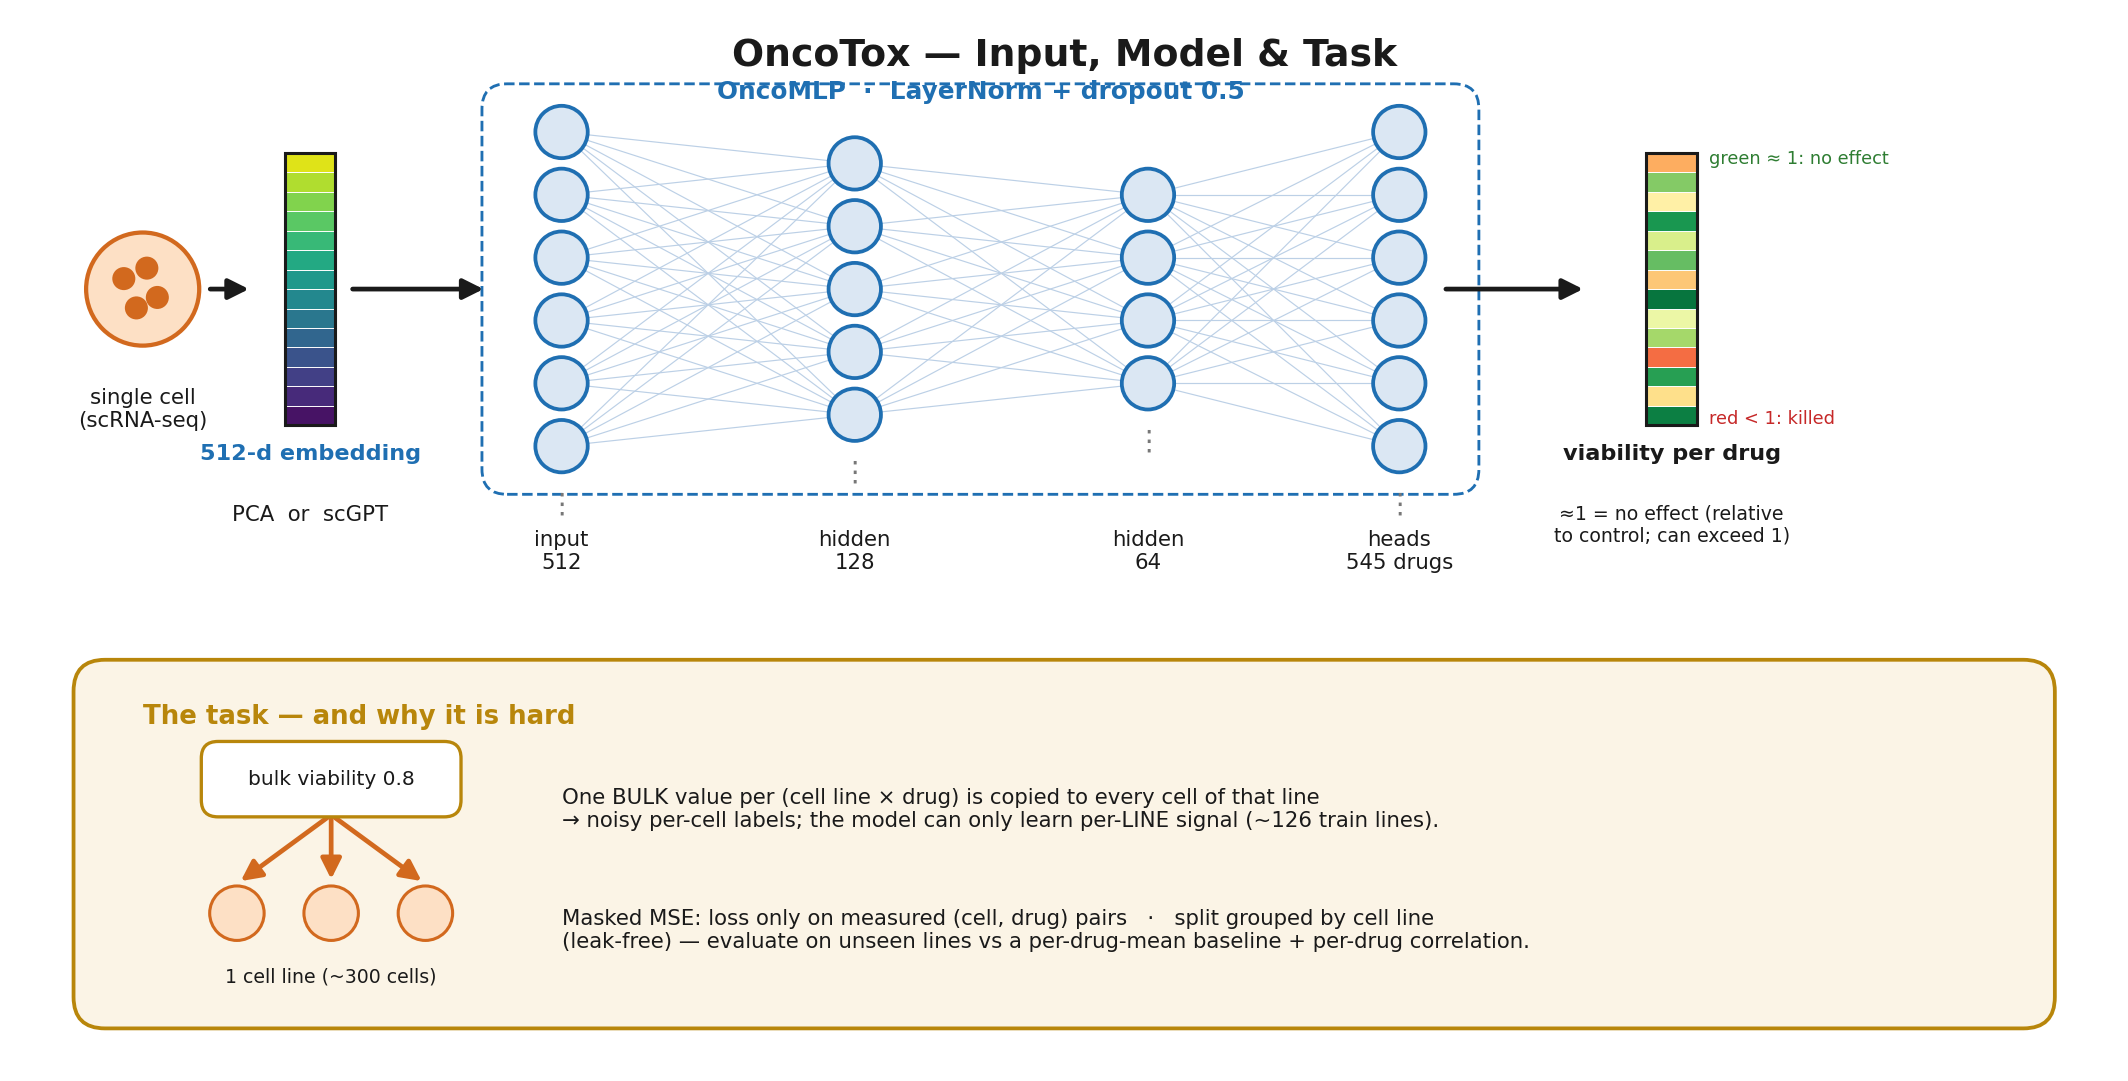
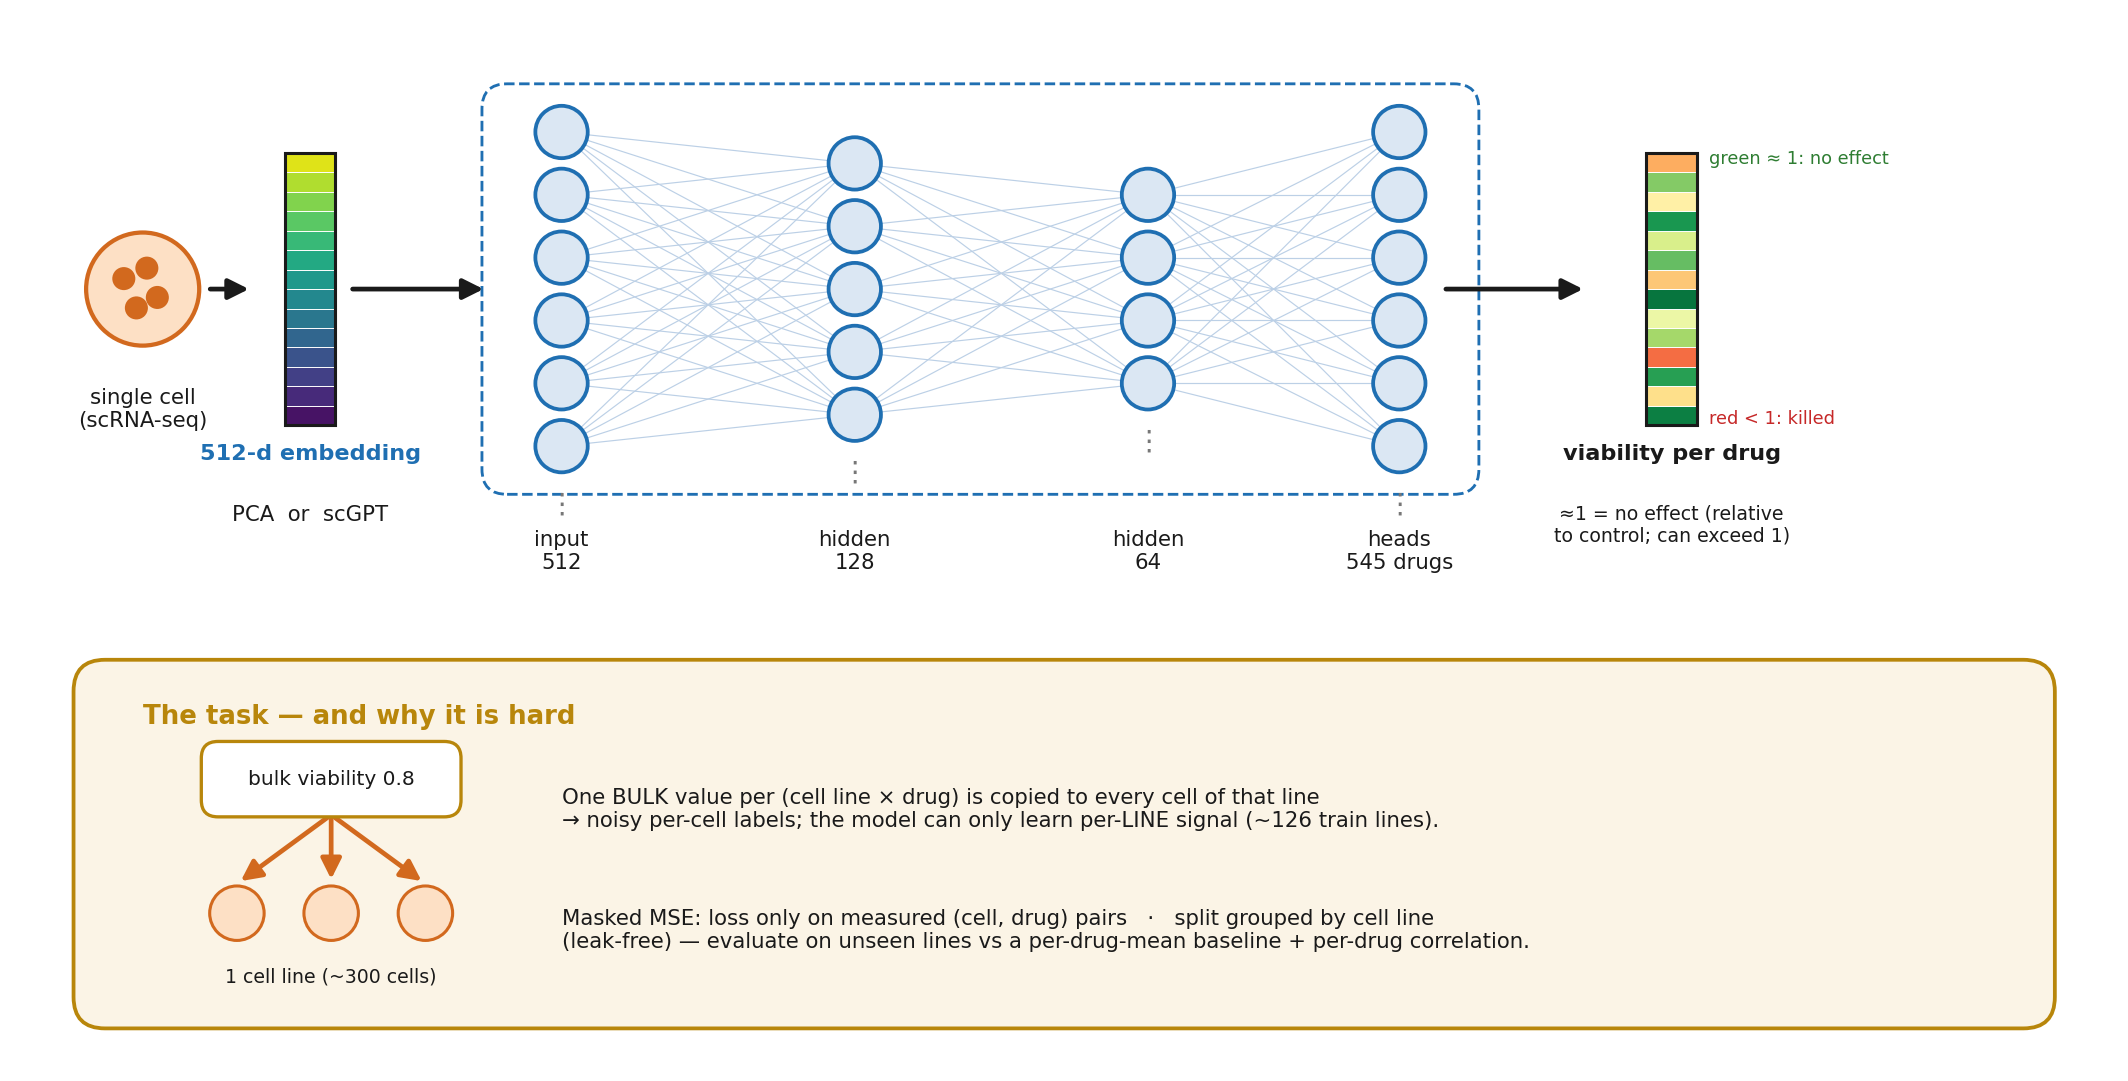
docs: drop in-figure titles from model_architecture.png
The figure is captioned where it is embedded, so the baked-in title and the
"OncoMLP · LayerNorm + dropout 0.5" banner were duplicated on the page.

Changed region(s): [[0.3412, 0.0305, 0.6513, 0.0916]]

diff --git a/docs/make_pipeline_overview.py b/docs/make_pipeline_overview.py
@@ -135,9 +135,6 @@ def build_architecture():
     fig, ax = plt.subplots(figsize=(16.0, 8.0))
     ax.set_xlim(0, 100); ax.set_ylim(0, 50); ax.set_aspect("equal"); ax.axis("off")
 
-    ax.text(50, 49, "OncoTox — Input, Model & Task", ha="center", va="top",
-            fontsize=16, fontweight="bold", color=INK)
-
     # ---------- INPUT: one cell -> embedding vector ----------
     ax.add_patch(Circle((6, 37), 2.7, facecolor="#fde0c5", edgecolor="#d2691e", lw=1.8, zorder=3))
     for dx, dy in [(-0.9, 0.5), (0.7, -0.4), (0.2, 1.0), (-0.3, -0.9)]:
@@ -166,8 +163,6 @@ def build_architecture():
         ax.text(lx, cy - (n / 2) * sp - 0.6, "⋮", ha="center", va="top", fontsize=12, color=GREY)
     for lx, t in zip(layers_x, ["input\n512", "hidden\n128", "hidden\n64", "heads\n545 drugs"]):
         ax.text(lx, 25.5, t, ha="center", va="top", fontsize=9, color=INK)
-    ax.text(46, 47.0, "OncoMLP  ·  LayerNorm + dropout 0.5", ha="center", va="top",
-            fontsize=10.5, fontweight="bold", color=BLUE)
     ax.add_patch(FancyBboxPatch((22.5, 27.5), 47, 19, boxstyle="round,pad=0.3,rounding_size=1.2",
                  fill=False, edgecolor=BLUE, lw=1.2, linestyle="--", zorder=0))
     arrow(ax, 68, 37, 75, 37, color=INK)
